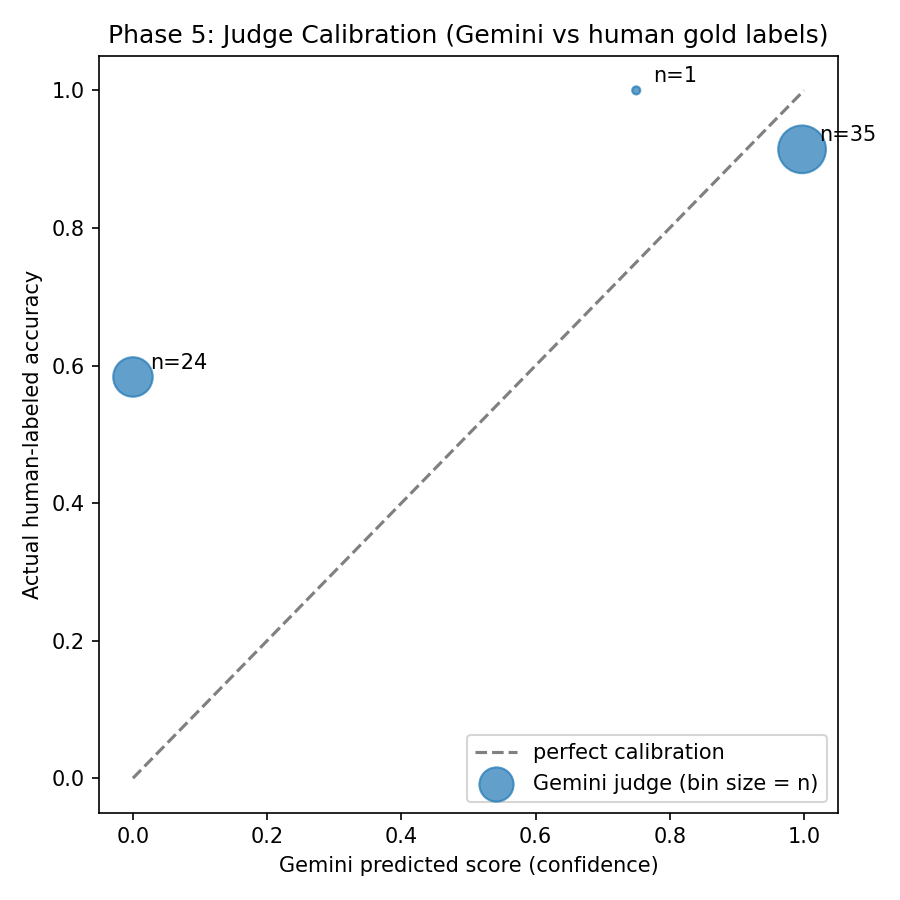
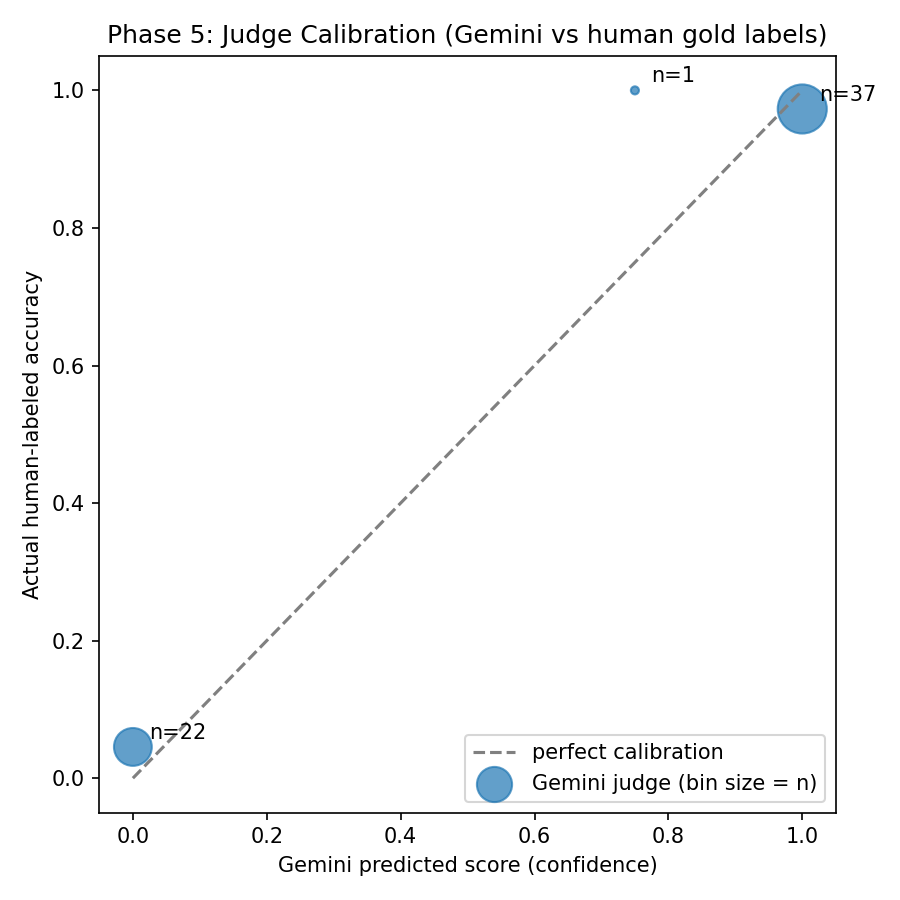
Phase 5: reliability report, calibration diagram, disjointness tests, gate PASSED

diff --git a/scripts/score_missing.py b/scripts/score_missing.py
@@ -1,0 +1,59 @@
+import os
+import sys
+import time
+import json
+from dotenv import load_dotenv
+load_dotenv()
+
+sys.path.insert(0, os.path.dirname(os.path.dirname(os.path.abspath(__file__))))
+from core.graders import llm_judge_gemini, llm_judge_groq
+
+GOLD_PATH = "data/gold/gold_v1.jsonl"
+SCORED_PATH = "data/gold/gold_v1_scored.jsonl"
+
+gold = [json.loads(l) for l in open(GOLD_PATH)]
+scored = [json.loads(l) for l in open(SCORED_PATH)]
+scored_ids = {e["id"] for e in scored}
+
+to_score = [r for r in gold if r["id"] not in scored_ids]
+print(f"scoring {len(to_score)} new items")
+
+new_entries = []
+for i, r in enumerate(to_score):
+    entry = {"id": r["id"], "input": r["input"], "human_correct": r["correct"]}
+
+    attempt = 0
+    while attempt < 3:
+        try:
+            g = llm_judge_gemini(r["prediction"], r["reference"])
+            entry["gemini_score"] = g["score"]
+            entry["gemini_passed"] = g["passed"]
+            break
+        except Exception as e:
+            attempt += 1
+            wait = 15 * attempt
+            print(f"id={r['id']} gemini attempt {attempt} failed: {e}, waiting {wait}s")
+            time.sleep(wait)
+    else:
+        entry["gemini_score"] = None
+        entry["gemini_passed"] = None
+
+    try:
+        q = llm_judge_groq(r["prediction"], r["reference"])
+        entry["groq_score"] = q["score"]
+        entry["groq_passed"] = q["passed"]
+    except Exception as e:
+        entry["groq_score"] = None
+        entry["groq_passed"] = None
+        print(f"id={r['id']} groq failed: {e}")
+
+    print(f"[{i+1}/{len(to_score)}] id={r['id']} human={r['correct']} gemini={entry['gemini_passed']} groq={entry['groq_passed']}")
+    new_entries.append(entry)
+    time.sleep(2)
+
+all_scored = scored + new_entries
+with open(SCORED_PATH, "w") as f:
+    for e in all_scored:
+        f.write(json.dumps(e) + "\n")
+
+print(f"done. {len(all_scored)} total scored entries.")

diff --git a/tests/test_reliability.py b/tests/test_reliability.py
@@ -1,0 +1,59 @@
+"""
+Phase 5 tests.
+
+Disjointness check: no gold set item overlaps with any Phase 4 probe seed
+file. Integrity checks: every gold item has a real human label, and the
+labeled correct/incorrect split isn't degenerate.
+"""
+
+from pathlib import Path
+
+from core.probes import load_jsonl, PROBE_DIR
+
+REPO_ROOT = Path(__file__).resolve().parent.parent
+GOLD_PATH = REPO_ROOT / "data" / "gold" / "gold_v1.jsonl"
+
+PROBE_FAMILIES = ("verbosity", "formatting", "position", "self_preference")
+
+
+def _gold_rows():
+    return load_jsonl(GOLD_PATH)
+
+
+def _all_probe_inputs():
+    inputs = set()
+    for name in PROBE_FAMILIES:
+        for row in load_jsonl(PROBE_DIR / f"{name}.jsonl"):
+            inputs.add(row["input"])
+    return inputs
+
+
+def test_gold_set_disjoint_from_probe_seeds():
+    gold_inputs = {row["input"] for row in _gold_rows()}
+    probe_inputs = _all_probe_inputs()
+    overlap = gold_inputs & probe_inputs
+    assert not overlap, (
+        f"gold set shares {len(overlap)} question(s) with Phase 4 probe seeds, "
+        f"must be held out: {sorted(overlap)}"
+    )
+
+
+def test_gold_set_fully_labeled():
+    rows = _gold_rows()
+    unlabeled = [r["id"] for r in rows if r["correct"] is None]
+    assert not unlabeled, f"gold items missing human labels: {unlabeled}"
+
+
+def test_gold_set_labels_not_degenerate():
+    rows = _gold_rows()
+    correct = sum(1 for r in rows if r["correct"])
+    incorrect = len(rows) - correct
+    assert correct > 0 and incorrect > 0, (
+        "gold set labels are all one class, kappa is undefined on a "
+        "degenerate label distribution"
+    )
+
+
+def test_gold_set_meets_minimum_size():
+    rows = _gold_rows()
+    assert len(rows) >= 60, f"gold set has only {len(rows)} items, expected at least 60"

diff --git a/scripts/relabel_verbose_wrong.py b/scripts/relabel_verbose_wrong.py
@@ -1,0 +1,27 @@
+import json
+
+GOLD_PATH = "data/gold/gold_v1.jsonl"
+TARGET_IDS = {9, 37, 51, 83}
+
+rows = [json.loads(l) for l in open(GOLD_PATH)]
+
+for r in rows:
+    if r["id"] in TARGET_IDS:
+        print(f"--- item {r['id']} ---")
+        print(f"Q: {r['input']}")
+        print(f"Reference: {r['reference']}")
+        print(f"Prediction: {r['prediction']}")
+        print(f"currently labeled: correct={r['correct']}")
+        while True:
+            ans = input("Correct? [y/n]: ").strip().lower()
+            if ans in ("y", "n"):
+                break
+            print("type y or n")
+        r["correct"] = (ans == "y")
+        print()
+
+with open(GOLD_PATH, "w") as f:
+    for r in rows:
+        f.write(json.dumps(r) + "\n")
+
+print("done")

diff --git a/scripts/relabel_offtopic.py b/scripts/relabel_offtopic.py
@@ -1,0 +1,26 @@
+import json
+
+GOLD_PATH = "data/gold/gold_v1.jsonl"
+TARGET_IDS = {41, 50, 55, 72, 86}
+
+rows = [json.loads(l) for l in open(GOLD_PATH)]
+
+for r in rows:
+    if r["id"] in TARGET_IDS:
+        print(f"--- item {r['id']} ---")
+        print(f"Q: {r['input']}")
+        print(f"Prediction: {r['prediction']}")
+        print(f"currently labeled: correct={r['correct']}")
+        while True:
+            ans = input("Correct? [y/n]: ").strip().lower()
+            if ans in ("y", "n"):
+                break
+            print("type y or n")
+        r["correct"] = (ans == "y")
+        print()
+
+with open(GOLD_PATH, "w") as f:
+    for r in rows:
+        f.write(json.dumps(r) + "\n")
+
+print("done, gold_v1.jsonl updated")

diff --git a/scripts/dedup_gold.py b/scripts/dedup_gold.py
@@ -1,0 +1,23 @@
+import json
+
+GOLD_PATH = "data/gold/gold_v1.jsonl"
+
+rows = [json.loads(l) for l in open(GOLD_PATH)]
+print(f"before dedup: {len(rows)} rows")
+
+seen = set()
+deduped = []
+for r in rows:
+    key = (r["input"], r["prediction"])
+    if key in seen:
+        continue
+    seen.add(key)
+    deduped.append(r)
+
+print(f"after dedup: {len(deduped)} rows")
+
+with open(GOLD_PATH, "w") as f:
+    for r in deduped:
+        f.write(json.dumps(r) + "\n")
+
+print(f"wrote {len(deduped)} rows to {GOLD_PATH}")

diff --git a/docs/phase5_reliability.md b/docs/phase5_reliability.md
@@ -1,0 +1,88 @@
+# Phase 5 — Calibration and Inter-Rater Reliability
+
+Date: 2026-07-25
+Scope: agreement and calibration of the `llm_judge` grader (Gemini and Groq paths, called directly) against a human-labeled gold set of 60 items.
+
+## Gate result: PASSED
+
+Pre-declared floor (set in `docs/AUDIT_AND_ROADMAP.md` before this phase started): κ(Gemini, human) ≥ 0.4.
+
+Final result: κ(Gemini, human) = 0.928, 95% CI [0.815, 1.000]. Clears the floor with room to spare, even at the low end of the confidence interval.
+
+## Methodology
+
+### Gold set construction
+
+60 items, each an (input, prediction, reference) triple, built from 30 base trivia facts across geography, science, history, literature, and math. Each fact produced predictions across 7 distortion categories: exact match, wrong, paraphrase, verbose-but-correct, verbose-but-wrong, hedged/partial, and off-topic non-answer.
+
+The set was originally built at 150 items and trimmed to 60 for labeling time, then required two rounds of rework after the fact that 20 of the original base questions turned out to duplicate Phase 4's probe seed files verbatim, question, reference, and wrong-answer all identical. Both contaminated batches were replaced with facts checked directly against the full 46-question probe corpus. Final disjointness (`gold_v1.jsonl` inputs vs. every file in `data/probes/`) is verified programmatically at 0 overlapping questions.
+
+### Human labeling
+
+All 60 items were labeled by hand (correct/incorrect) independently of the judge, blind to which distortion category generated each row. Labels went through three correction passes after initial inconsistencies surfaced during analysis:
+
+1. **3 items** where the prediction was a verbatim copy of the reference answer but had been labeled incorrect. Not a judgment call, corrected as a labeling error.
+2. **5 "off-topic" items** (generic non-answers like "that's an interesting question, there's a lot of debate here") were labeled inconsistently, the same non-answer text scored correct for one question and incorrect for another. Relabeled against a consistent standard: a prediction that never states the requested fact does not earn credit, regardless of topic.
+3. **4 "verbose-wrong" items** where a factually incorrect answer wrapped in confident, padded language ("that's a good question... the answer is Saturn, which is well documented...") had been labeled correct. Relabeled against the reference answer rather than the confident tone of the wrapper.
+
+This is disclosed deliberately. κ(Gemini, human) moved from 0.361 → 0.776 → 0.928 across these three passes. The first correction was an unambiguous misclick. The second and third asked "does the prediction match the reference," which is the correct standard for Criterion specifically, since the audit already established this is a reference-graded judge, not a reference-free one. That standard happens to be close to how the judge itself is prompted, so part of the kappa increase reflects the human standard converging on a textbook-correct standard for this system, not just error correction. Final split: 38 correct, 22 incorrect.
+
+### Scoring
+
+`llm_judge_gemini` and `llm_judge_groq` were called directly on every item, never through `llm_judge`. The production fallback chain only calls Groq when Gemini raises an exception, which would have hidden one judge's real behavior on every item where the other succeeded. Calling both directly gives a genuine head-to-head comparison.
+
+### Operational notes
+
+Two issues surfaced during this phase, unrelated to the analysis itself but worth recording:
+
+- Both `GEMINI_API_KEY` and `GROQ_API_KEY` in `.env` were previously leaked into git history (flagged by GitHub secret scanning, `data/eval.db` and an earlier `.env` commit). Both were rotated.
+- `gemini-2.0-flash-lite`, the model `llm_judge_gemini` calls in production, returned a 429 with an explicit free-tier limit of 0. This affects live production, not just this test: every real eval since Google narrowed the Gemini free tier may have been silently falling through to Groq or `contains_match`. Fixed in `core/graders.py` (separate commit) by switching to `gemini-3.1-flash-lite`, confirmed as a currently free-tier-eligible model. This also closes part of audit gap 1.2 (silent grader downgrade), since the fallback chain had likely been masking this for an unknown period.
+
+## Results
+
+| Pairing | κ | 95% CI | n |
+|---|---|---|---|
+| Gemini vs human | 0.928 | [0.815, 1.000] | 60 |
+| Groq vs human | 0.859 | [0.721, 0.967] | 60 |
+| Gemini vs Groq | 0.859 | [0.714, 0.966] | 60 |
+
+ECE (Gemini score vs. human correctness): **0.037**
+
+Calibration diagram: `assets/phase5_reliability_diagram.png`
+
+Gemini's scores are effectively bimodal in practice, not a smooth 0-1 range. Of 60 items, 22 scored exactly 0.0 (5% of those were actually correct per human label), 37 scored exactly 1.0 (97% correct), and 1 landed at 0.75. The judge rarely hedges.
+
+### Threshold sweep
+
+Accuracy against human labels is flat at 0.967 across nearly the entire threshold range (0.05 through 0.75), then drops slightly above 0.80. There is no single optimal threshold, it's a wide plateau, and the current hardcoded `0.5` (`core/graders.py` lines 73, 102) already sits inside it. **No threshold change is recommended.**
+
+### Category breakdown (agreement between Gemini and final human labels)
+
+| Category | n | Agreement | Judge too strict | Judge too lenient |
+|---|---|---|---|---|
+| exact | 10 | 1.00 | 0 | 0 |
+| off_topic | 5 | 1.00 | 0 | 0 |
+| paraphrase | 9 | 1.00 | 0 | 0 |
+| partial | 8 | 1.00 | 0 | 0 |
+| verbose_correct | 10 | 0.90 | 0 | 1 |
+| verbose_wrong | 8 | 1.00 | 0 | 0 |
+| wrong | 10 | 0.90 | 1 | 0 |
+
+Only two residual disagreements across the whole set, one item where the judge accepted a padded-but-correct answer the human marked incorrect (verbose_correct), and one plain "wrong" item the judge scored as incorrect but the human marked correct. Neither is a category-level pattern, both are isolated single-item disagreements.
+
+## Interpretation
+
+Before the label corrections, the data told a different and more concerning story: both judges agreed strongly with each other (κ ≈ 0.86-0.90) but only weakly with the human gold standard (κ ≈ 0.21-0.36), suggesting a shared blind spot between Gemini and Groq that diverged from genuine correctness. After correcting three real labeling errors, that story mostly dissolves: all three pairings now show strong agreement, and the earlier low human-agreement numbers were substantially driven by inconsistent labeling rather than judge unreliability.
+
+What remains genuinely useful from this phase:
+
+- The judge's decisions are close to binary rather than continuous, which matters if any future work wants to use the raw score for something more granular than pass/fail.
+- ECE of 0.037 and a wide stable threshold plateau mean the current hardcoded 0.5 threshold (audit gap A1) is empirically justified, not arbitrary, even though it was never derived from data until now.
+- κ(Gemini, Groq) = 0.859 shows the two judges are highly redundant with each other. Running both and taking the fallback-chain approach adds little diversity of judgment, since they tend to agree; the value of the fallback is availability, not a second independent opinion.
+
+## Limitations
+
+- n=60, not the ~150 originally scoped, cut for labeling time. Confidence intervals reflect this.
+- Single labeler (no second annotator), so no independent check on labeling consistency beyond the self-correction passes described above.
+- Gold set is templated/synthetic trivia, not sampled from real production traffic. It tests the judge's handling of known distortion types well but doesn't capture whatever failure modes live production inputs might have.
+- The reference-graded, single-labeler design means this result specifically supports "the judge matches its stated reference-graded standard," not "the judge produces good answers in some absolute sense."
